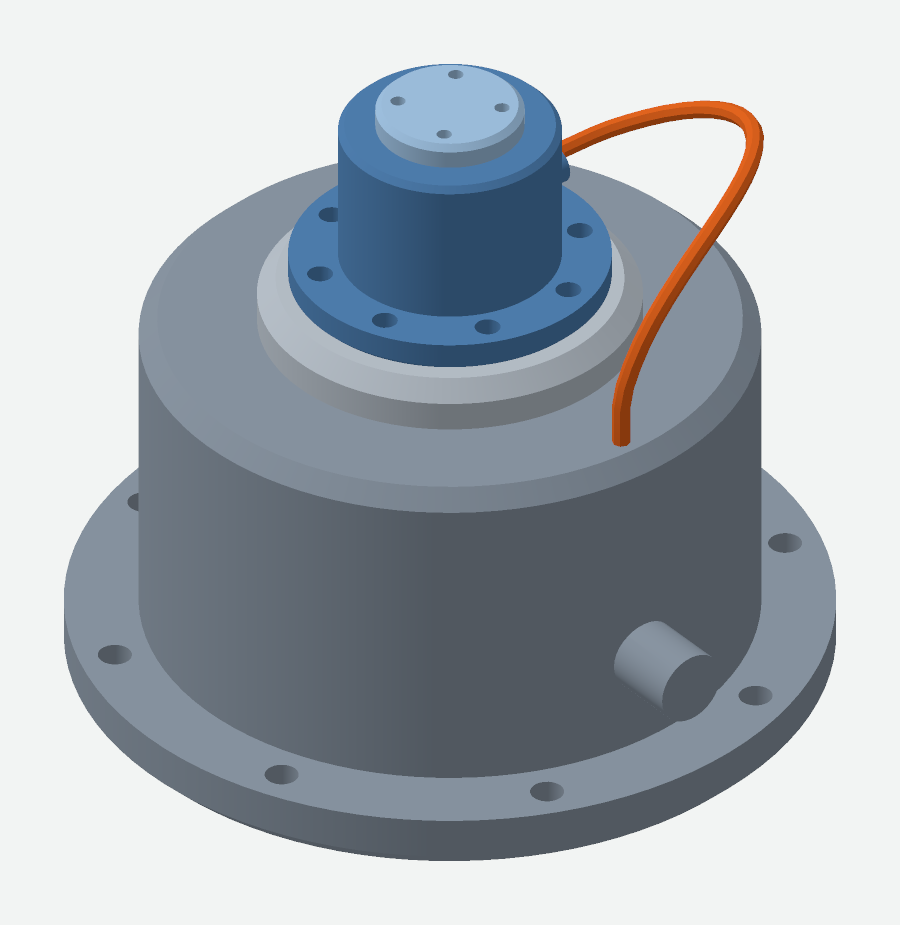
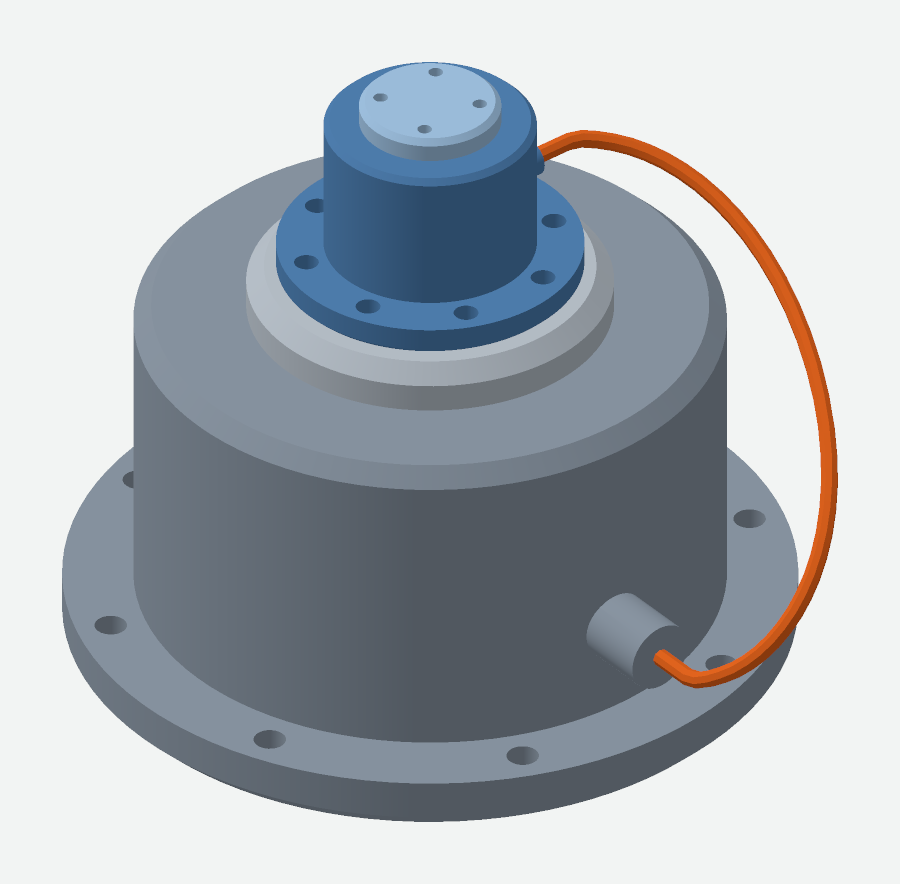
Cabos, fatias 3 e 4: o cabo na junta saindo da porta do atuador, aprovado pela pessoa
Fora-do-territorio: docs/modelar/planos/BACKLOG.md, os atritos da porta de cabo vão ao backlog

Claude-Session: https://claude.ai/code/session_01UHE3FsZMSW243krzDk98Re

diff --git a/docs/modelar/planos/2026-11-27-cabos.md b/docs/modelar/planos/2026-11-27-cabos.md
@@ -70,6 +70,10 @@ Fatia 2 feita em 2026-11-27, à espera da aprovação da pessoa por imagem: o aj
 Fatia 2 feita em 2026-11-27: o pedido `cabo()` em coordenadas absolutas e com qualquer folga, as passagens (até duas) com o comprimento total respeitado, as braçadeiras e os terminais de capa e olhal como chamadas próprias da família (sem multiplicar as composições, que voltaram às 17 estações mais duas de acessório), e o feixe de 2 a 6 cabos por `feixeDeCabos`, que ainda não leva acessórios. Os limites da família caíram para diâmetro de 25 mm e comprimento de 12.000 mm, para o ponto máximo da aprovação caber com as passagens. A pessoa aprovou as formas e os limites por imagem em 2026-11-27 ("Sim, aprovo as duas").
 Fatia 3 feita em 2026-11-27, à espera da aprovação da pessoa por imagem: o cabo preso a portas da montagem, refeito em cada passo do curso de uma junta, e a conferência do curso (`procedural/familias/cabo/montagem.js`), com a prova dos dois atuadores de 100 mm descrita no banco de provas.
 
+
+Fatia 3 feita em 2026-11-27: o pedido do cabo por portas de instância (`procedural/familias/cabo/montagem.js`), refeito em cada passo do curso da junta, e a conferência por passo (estica, dobra, autocontato, atravessa). A pessoa aprovou o cabo na junta e pediu que ele não passasse por dentro de outra peça e que a ponta saísse centrada.
+
+Fatia 4 feita em 2026-11-27: a porta `cabo` do atuador de junta no centro da ponta do cilindro de saída, com a geometria do atuador igual bit a bit; a prova usando essa porta; a conferência de alinhamento (centro a 0,1 mm nas três coordenadas e direção a 1 grau), com teste que reprova a fixture antiga; o curso amostrado mais fino onde a folga cai abaixo de dois diâmetros; e a recusa automática do cabo que atravessa, com o ângulo, a peça e o ponto da braçadeira. A ponta torta da fatia 3 não seria pega por nenhuma conferência; foi a pessoa, nas vistas de lado, e a régua de alinhamento é a resposta. A pessoa aprovou em 2026-11-27 ("aprovo, o cabo está passando por fora sim").
 ## Fechamento
 
 Preencher ao concluir ou cancelar: estado final, commit e PR, gates, resultado observado e candidatos devolvidos ao backlog.

diff --git a/docs/modelar/planos/BACKLOG.md b/docs/modelar/planos/BACKLOG.md
@@ -382,3 +382,5 @@ A perna estreita do humanoide: a perna de prova do elo entre juntas sai com 387 
 O elo de chapa em garfo, com uma chapa de cada lado do atuador, que pede uma segunda face de apoio no atuador de junta; e uma sonda de combinações reais nas famílias, porque a aprovação mecânica só cobre os pontos de extremo e a recusa da chapa entre atuadores pequenos só apareceu numa varredura feita à mão (perna estreita, 2026-11-27).
 
 Dois atritos dos cabos (2026-11-27): o feixe de cabos não leva braçadeira nem terminal, porque `instanciaDeFamilia` só leva a chamada da família, e duas chamadas da mesma família numa receita colidem nos ids de origem e de porta, o que as instruções da família não avisam; e a bancada (`vistas-da-receita`) não aceita receita com `CHAMADAS_COMPOSICOES` sem o registro explícito das famílias.
+
+Dois atritos da porta de cabo no atuador (2026-11-27): a conferência de forma da porta (`src/autoria/porta-confere-forma.js`) mede todos os vértices da peça perto do plano da porta, e a flange do atuador de 100 mm no mesmo plano reprovou a porta de anel, que virou porta de plano; e publicar uma porta no meio da lista de passos desloca os ids do núcleo e muda o hash aprovado sem mudar a forma, o que nenhuma instrução avisa.

diff --git a/docs/modelar/banco-de-provas/cabos-2026-11-27/README.md b/docs/modelar/banco-de-provas/cabos-2026-11-27/README.md
@@ -47,3 +47,5 @@ A conferência do curso (`conferirCursoDoCabo`) acusa `estica`, `dobra`, `autoco
 O curso fino: onde a folga do cabo a um sólido fica abaixo de dois diâmetros, o intervalo até o passo vizinho é dividido ao meio até a folga se resolver ou o passo chegar a um oitavo do da declaração. Caso entre passos: o cabo de 200 mm no curso de 100° a 260° em 3 passos passa nos quatro passos grossos e atravessa A de 157° a 203°; só o refinamento o acha.
 
 Vistas em `tools/bancadas/out/cabos-na-junta/` (fora do git): início, meio e fim do curso do arranjo que passa e o atravessa a 180°, cada pose nas vistas isométrica, de lado e de cima, geradas por `node tools/fixtures/cabo/junta-com-cabo-vistas.mjs`.
+
+Na fatia 4 o cabo passou a sair das portas `cabo` que o atuador de junta publica no centro da ponta do cilindro de saída, e as imagens `aprovado-junta-*` foram refeitas com o cabo de 150 mm. A pessoa aprovou em 2026-11-27, com a frase "aprovo, o cabo está passando por fora sim, pode enviar e seguir com a exportação", depois de conferir que o cabo passa por fora da flange na vista de lado a +90°.
